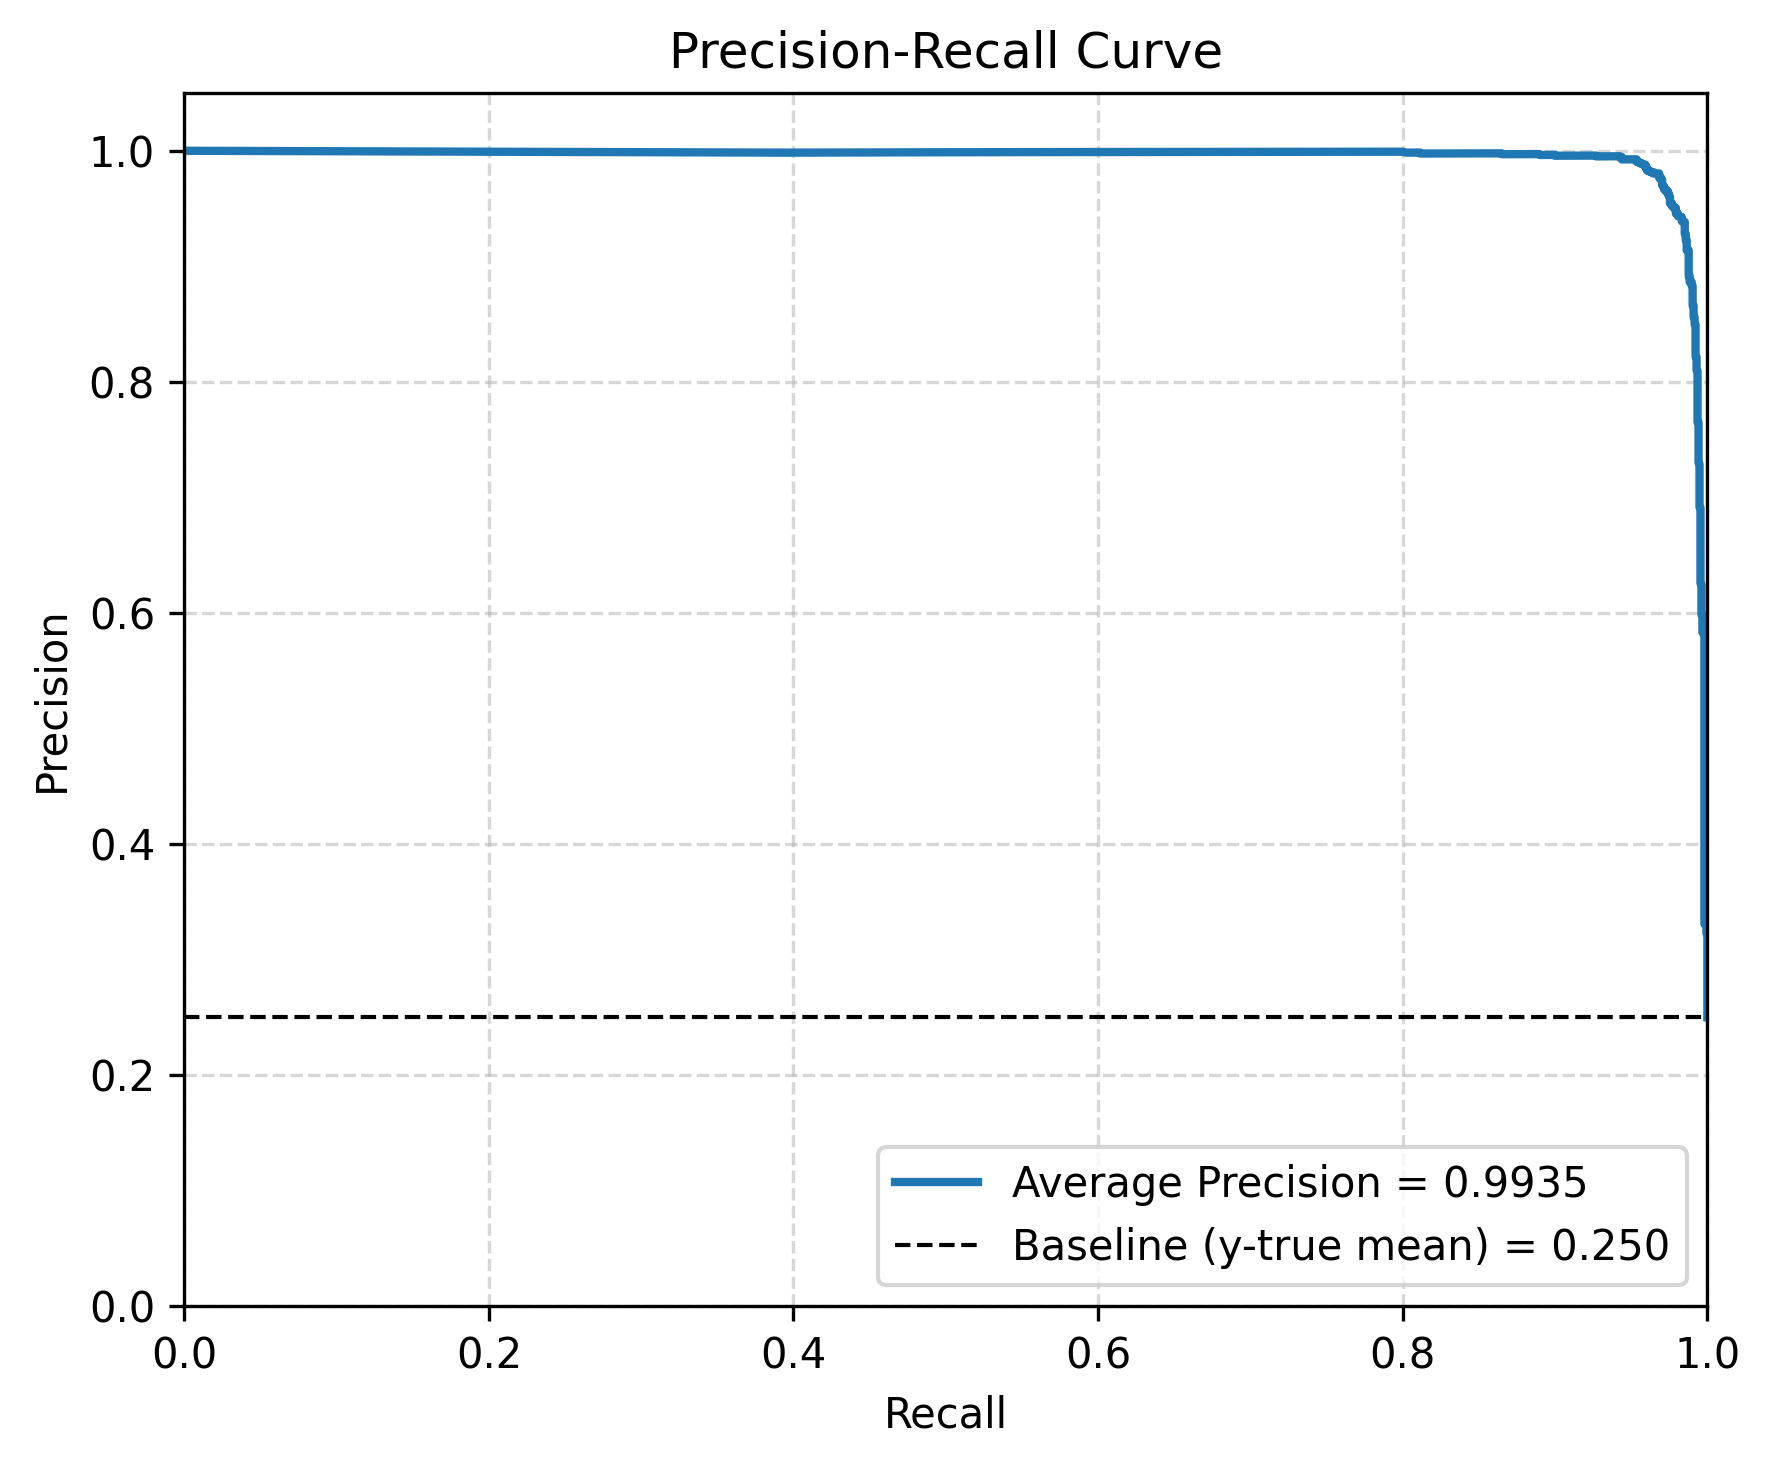
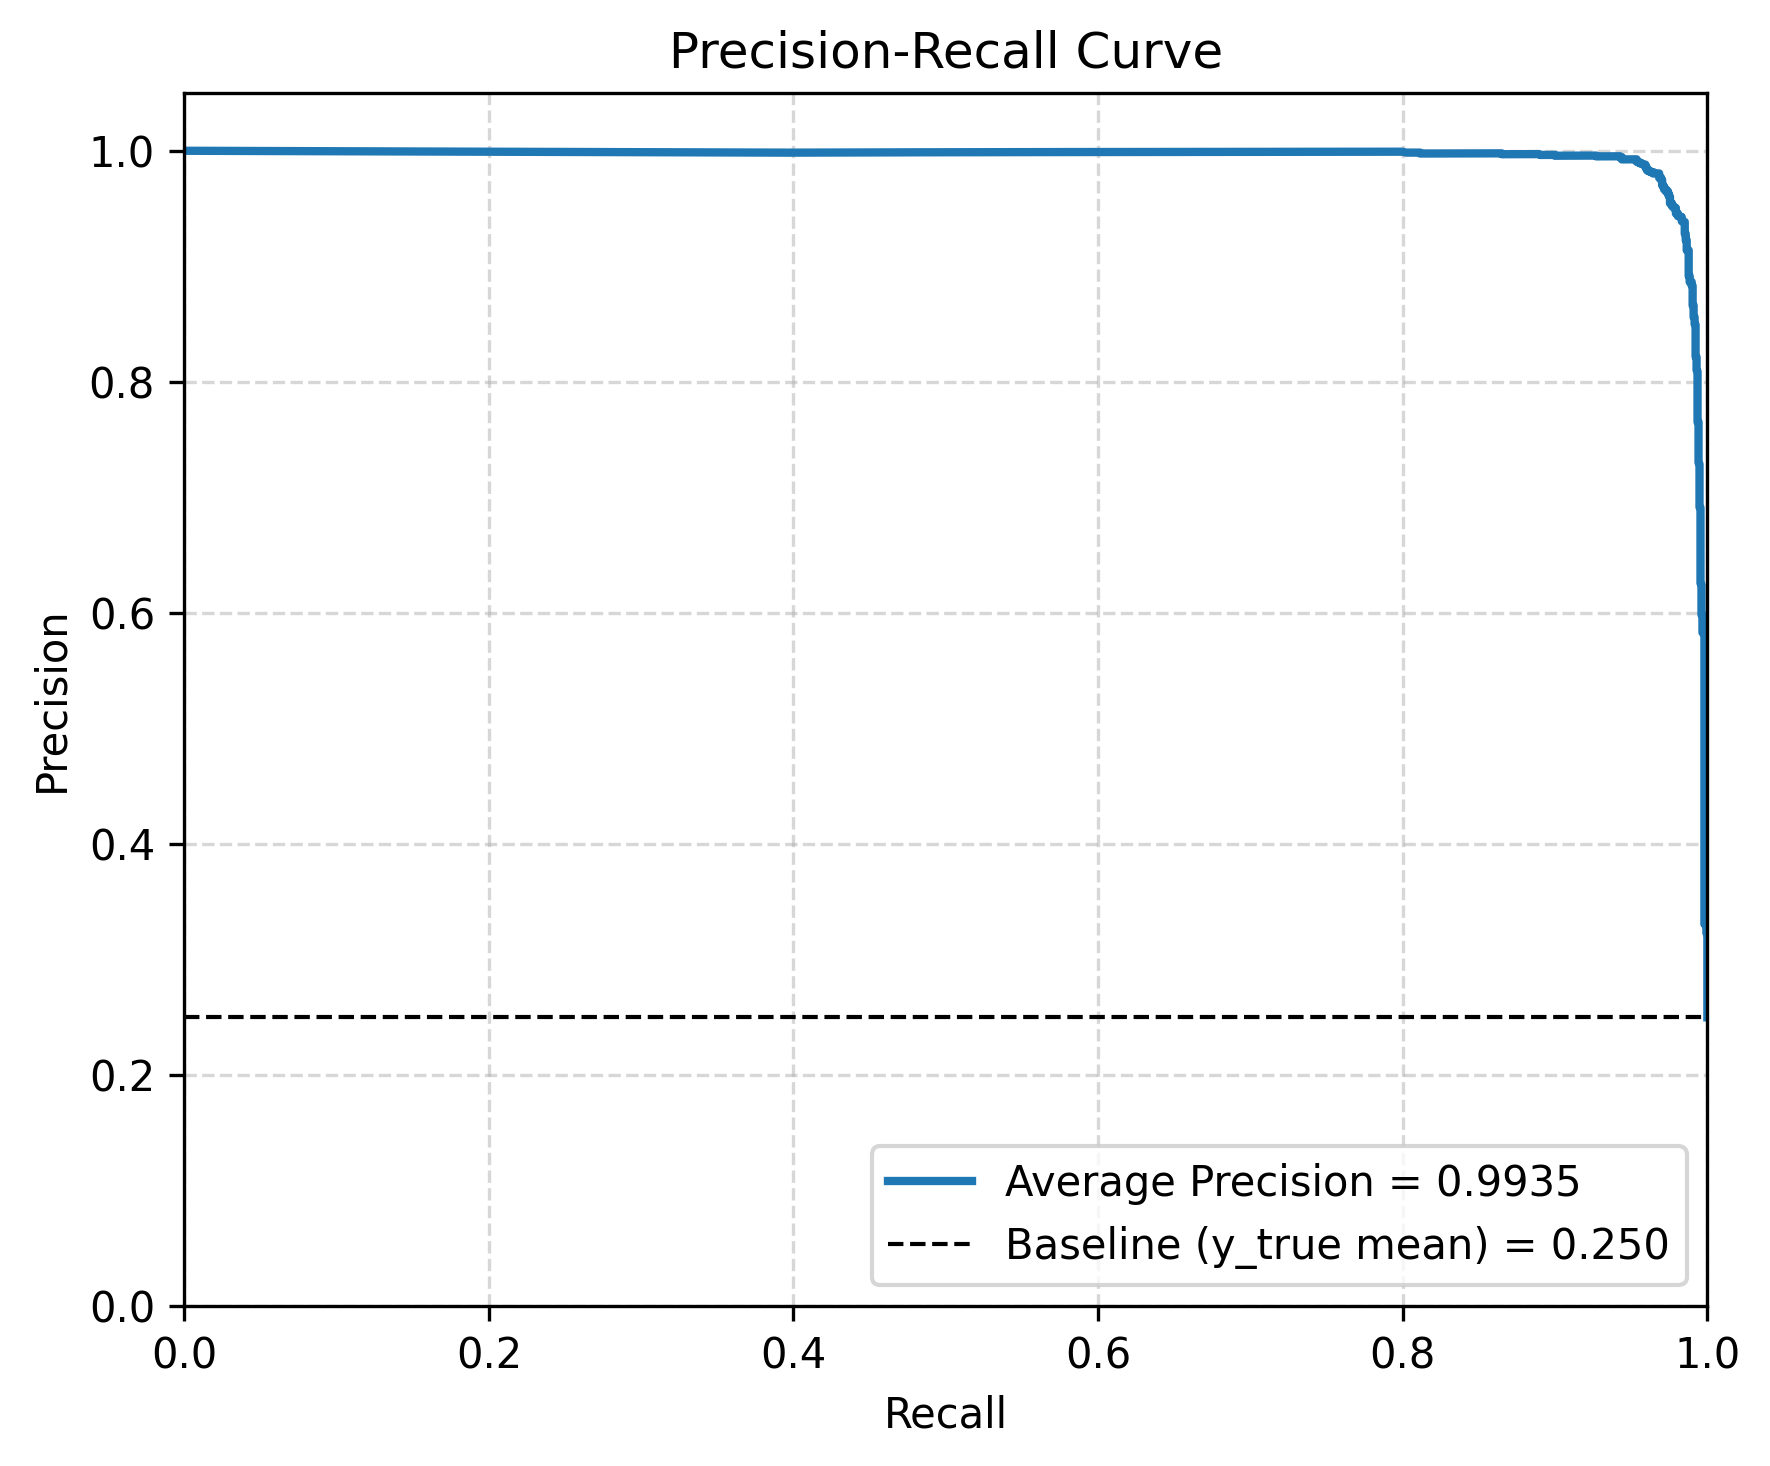
Change y-true to y_true in pr curve figure

Changed region(s): [[0.5593, 0.7674, 0.9011, 0.8595], [0.4661, 0.7981, 0.5282, 0.8595], [0.9011, 0.8288, 0.9322, 0.8595]]

diff --git a/src/elp_rumble/evaluate_cnn.py b/src/elp_rumble/evaluate_cnn.py
@@ -212,7 +212,7 @@ def plot_pr_curve(preds_df: pd.DataFrame, output_dir: Path) -> None:
 
     fig, ax = plt.subplots(figsize=(6, 5))
     ax.plot(recall, precision, lw=2, label=f"Average Precision = {ap:.4f}")
-    ax.axhline(baseline, color="k", linestyle="--", lw=1, label=f"Baseline (y-true mean) = {baseline:.3f}")
+    ax.axhline(baseline, color="k", linestyle="--", lw=1, label=f"Baseline (y_true mean) = {baseline:.3f}")
     ax.set_xlabel("Recall")
     ax.set_ylabel("Precision")
     ax.set_title("Precision-Recall Curve")
